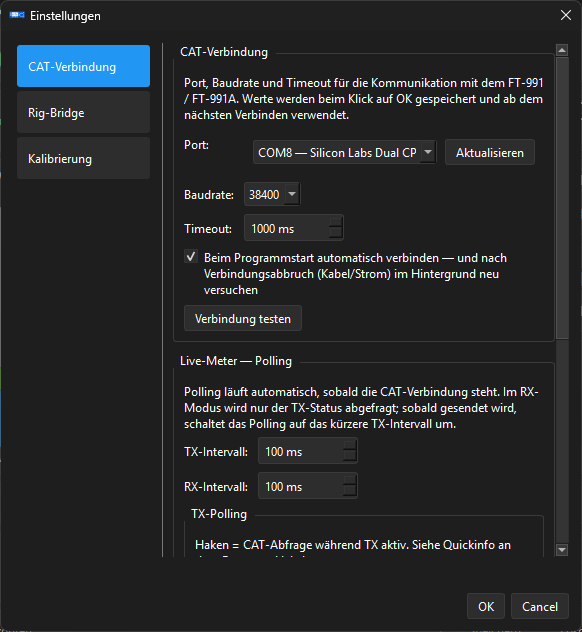
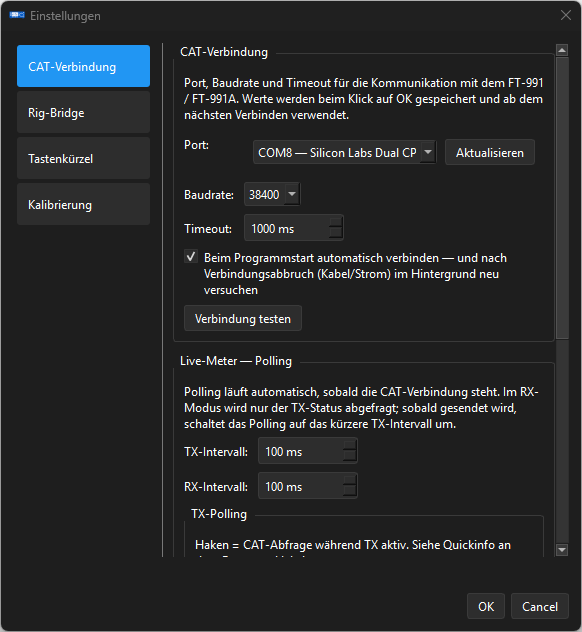
Update user manuals and documentation for keyboard shortcuts and screenshots
- Revised the German and English user manuals to include detailed sections on global and application-specific keyboard shortcuts.
- Updated links to the German and English manuals in the README for better accessibility.
- Enhanced the README for screenshots to reflect the correct paths and links for both language versions.
- Added new screenshots for the keyboard shortcuts section to improve user understanding.

diff --git a/Bedienungsanleitung.md b/Bedienungsanleitung.md
@@ -3,8 +3,8 @@
 **Version:** siehe *Hilfe → Version* in der Anwendung  
 **Autor:** Jörg Körner, DK8DE  
 **Download & Updates:** [GitHub Releases](https://github.com/DK8DE/FT991AudioManager/releases)  
-**Englische Version:** [UserManual_EN.md](UserManual_EN.md)  
-**Screenshots:** Ordner [`docs/screenshots/de/`](docs/screenshots/de/) — siehe [README dort](docs/screenshots/README.md)
+**Englische Version:** Englisches Handbuch als PDF (*FT991AudioManager-UserManual-&lt;Version&gt;.pdf*) im gleichen [GitHub Release](https://github.com/DK8DE/FT991AudioManager/releases) wie die deutsche PDF.  
+**Screenshots (Quellversion):** [github.com/DK8DE/FT991AudioManager/tree/main/docs/screenshots/de](https://github.com/DK8DE/FT991AudioManager/tree/main/docs/screenshots/de) — Dateiliste in [docs/screenshots/README.md](https://github.com/DK8DE/FT991AudioManager/blob/main/docs/screenshots/README.md)
 
 ---
 
@@ -452,7 +452,7 @@ Die Anwendung verwendet dauerhaft das **Dark Theme**.
 
 ## 10. Einstellungsdialog im Detail
 
-**Datei → Einstellungen…** — drei Bereiche in der linken Navigation:
+**Datei → Einstellungen…** — vier Bereiche in der linken Navigation:
 
 ### 10.1 CAT-Verbindung
 
@@ -480,7 +480,25 @@ Ermöglicht die Nutzung von **WSJT-X**, **FLRig** und anderen CAT-Clients parall
 
 *Abb. 14: Einstellungen → Rig-Bridge. (Screenshot-Platzhalter)*
 
-### 10.3 Kalibrierung
+### 10.3 Tastenkürzel
+
+**Globale Tastenkürzel** (unter Windows) — systemweit, auch wenn die App nicht im Fokus ist:
+
+| Einstellung | Standard | Funktion |
+|-------------|----------|----------|
+| **Globale Tastenkürzel aktiv** | ein | Registriert die Kombinationen unter Windows |
+| **Modifikator 1 / 2** | Strg + Umschalt | Gelten für alle globalen Kürzel auf diesem Tab |
+| **Kontest-Loop: Play** | `Strg+Shift+P` | Startet CAT-Wiedergabe wie der Play-Button — nur wenn das **Player-Fenster** offen ist und **Kontest-Loop** aktiv ist |
+| **Live: PTT halten (Latch)** | `Strg+Shift+X` | Schaltet PTT-Halten im **Live-Fenster** um — nur wenn **Live** geöffnet ist |
+| **Live: PTT Momentary** | `Strg+Shift+Y` | Momentary-PTT im **Live-Fenster** (gedrückt halten) — nur wenn **Live** geöffnet ist |
+
+Die Tasten und Modifikatoren sind frei kombinierbar. Mindestens ein Modifikator sollte gesetzt sein, damit normale Tasteneingaben nicht blockiert werden.
+
+![Abb. 14.1 — Tastenkürzel](docs/screenshots/de/14.1-settings-hotkey.png)
+
+*Abb. 14.1: Einstellungen → Tastenkürzel. (Screenshot-Platzhalter)*
+
+### 10.4 Kalibrierung
 
 **S-Meter:** Eigene Kurven für Kurzwelle und 2 m/70 cm
 
@@ -493,6 +511,10 @@ Ermöglicht die Nutzung von **WSJT-X**, **FLRig** und anderen CAT-Clients parall
 ---
 
 ## 11. Tastenkürzel
+
+### 11.1 In der Anwendung
+
+Diese Kürzel gelten, wenn die App (bzw. das jeweilige Fenster) im Fokus ist:
 
 | Kürzel | Aktion |
 |--------|--------|
@@ -507,8 +529,12 @@ Ermöglicht die Nutzung von **WSJT-X**, **FLRig** und anderen CAT-Clients parall
 | `Strg+Shift+R` | Audio-Recorder |
 | `Strg+Shift+L` | Live‑PC Funk |
 | `Strg+Shift+K` | Speicherkanäle |
-| `Strg+Y` | Live: PTT halten |
-| `Strg+X` | Live: PTT einrasten |
+| `Strg+Y` | Live: PTT halten (wenn globale Kürzel deaktiviert) |
+| `Strg+X` | Live: PTT einrasten (wenn globale Kürzel deaktiviert) |
+
+### 11.2 Global (Einstellungen → Tastenkürzel)
+
+Mit aktivierten **globalen Tastenkürzeln** (Windows) gelten die Standard-Kombinationen **`Strg+Shift+P`**, **`Strg+Shift+Y`** und **`Strg+Shift+X`** systemweit — Details und Anpassung siehe [Abschnitt 10.3](#103-tastenkürzel).
 
 ---
 

diff --git a/UserManual_EN.md b/UserManual_EN.md
@@ -3,8 +3,8 @@
 **Version:** see *Help → Version* in the application  
 **Author:** Jörg Körner, DK8DE  
 **Download & updates:** [GitHub Releases](https://github.com/DK8DE/FT991AudioManager/releases)  
-**German version:** [Bedienungsanleitung.md](Bedienungsanleitung.md)  
-**Screenshots:** folder [`docs/screenshots/en/`](docs/screenshots/en/) — see [README there](docs/screenshots/README.md)
+**German version:** German manual as PDF (*FT991AudioManager-Bedienungsanleitung-&lt;Version&gt;.pdf*) in the same [GitHub release](https://github.com/DK8DE/FT991AudioManager/releases) as the English PDF.  
+**Screenshots (source tree):** [github.com/DK8DE/FT991AudioManager/tree/main/docs/screenshots/en](https://github.com/DK8DE/FT991AudioManager/tree/main/docs/screenshots/en) — file list in [docs/screenshots/README.md](https://github.com/DK8DE/FT991AudioManager/blob/main/docs/screenshots/README.md)
 
 ---
 
@@ -452,7 +452,7 @@ The application always uses the **dark theme**.
 
 ## 10. Settings dialog in detail
 
-**File → Settings…** — three sections in the left navigation:
+**File → Settings…** — four sections in the left navigation:
 
 ### 10.1 CAT connection
 
@@ -480,7 +480,25 @@ Enables **WSJT-X**, **FLRig**, and other CAT clients alongside the app.
 
 *Fig. 14: Settings → Rig bridge. (Screenshot placeholder)*
 
-### 10.3 Calibration
+### 10.3 Keyboard shortcuts
+
+**Global shortcuts** (on Windows) — system-wide, even when the app is not focused:
+
+| Setting | Default | Function |
+|---------|---------|----------|
+| **Global shortcuts enabled** | on | Registers combinations under Windows |
+| **Modifier 1 / 2** | Ctrl + Shift | Apply to all global shortcuts on this tab |
+| **Contest loop: Play** | `Ctrl+Shift+P` | Starts CAT playback like the Play button — only when the **player window** is open and **contest loop** is enabled |
+| **Live: PTT latch** | `Ctrl+Shift+X` | Toggles PTT latch in the **Live window** — only when **Live** is open |
+| **Live: PTT momentary** | `Ctrl+Shift+Y` | Momentary PTT in the **Live window** (hold) — only when **Live** is open |
+
+Keys and modifiers can be customized. At least one modifier should be set so normal typing is not blocked.
+
+![Fig. 14.1 — Shortcuts](docs/screenshots/en/14.1-settings-hotkey.png)
+
+*Fig. 14.1: Settings → Shortcuts. (Screenshot placeholder)*
+
+### 10.4 Calibration
 
 **S-meter:** Custom curves for HF and 2 m/70 cm
 
@@ -493,6 +511,10 @@ Enables **WSJT-X**, **FLRig**, and other CAT clients alongside the app.
 ---
 
 ## 11. Keyboard shortcuts
+
+### 11.1 In the application
+
+These shortcuts apply when the app (or the respective window) is focused:
 
 | Shortcut | Action |
 |----------|--------|
@@ -507,8 +529,12 @@ Enables **WSJT-X**, **FLRig**, and other CAT clients alongside the app.
 | `Ctrl+Shift+R` | Audio recorder |
 | `Ctrl+Shift+L` | Live PC Radio |
 | `Ctrl+Shift+K` | Memory channels |
-| `Ctrl+Y` | Live: PTT hold |
-| `Ctrl+X` | Live: PTT latch |
+| `Ctrl+Y` | Live: PTT hold (when global shortcuts are disabled) |
+| `Ctrl+X` | Live: PTT latch (when global shortcuts are disabled) |
+
+### 11.2 Global (Settings → Shortcuts)
+
+With **global shortcuts** enabled (Windows), the default combinations **`Ctrl+Shift+P`**, **`Ctrl+Shift+Y`**, and **`Ctrl+Shift+X`** work system-wide — details and customization in [section 10.3](#103-keyboard-shortcuts).
 
 ---
 

diff --git a/docs/screenshots/README.md b/docs/screenshots/README.md
@@ -4,8 +4,8 @@ Lege PNG-Dateien in den **sprachspezifischen Unterordnern** ab:
 
 | Ordner | Handbuch |
 |--------|----------|
-| [`de/`](de/) | Deutsch — [`Bedienungsanleitung.md`](../../Bedienungsanleitung.md) |
-| [`en/`](en/) | English — [`UserManual_EN.md`](../../UserManual_EN.md) |
+| [`de/`](https://github.com/DK8DE/FT991AudioManager/tree/main/docs/screenshots/de) | Deutsch — [`Bedienungsanleitung.md`](https://github.com/DK8DE/FT991AudioManager/blob/main/Bedienungsanleitung.md) |
+| [`en/`](https://github.com/DK8DE/FT991AudioManager/tree/main/docs/screenshots/en) | English — [`UserManual_EN.md`](https://github.com/DK8DE/FT991AudioManager/blob/main/UserManual_EN.md) |
 
 **Dateinamen sind in beiden Ordnern identisch** — Inhalt und Beschriftung der Screenshots sollen zur jeweiligen Sprache passen (UI auf Deutsch bzw. Englisch).
 
@@ -25,6 +25,7 @@ Lege PNG-Dateien in den **sprachspezifischen Unterordnern** ab:
 | `12-memory-editor.png` | Speicherkanal- / Memory-Editor |
 | `13-cat-log.png` | CAT-Log-Fenster |
 | `14-settings-rig-bridge.png` | Einstellungen → Rig-Bridge |
+| `14.1-settings-hotkey.png` | Einstellungen → Tastenkürzel / Shortcuts |
 | `15-settings-calibration.png` | Einstellungen → Kalibrierung |
 | `16-about.png` | Hilfe → Version (About) |
 
